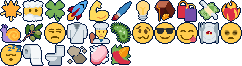
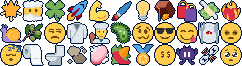
feat: add 5 new traits Ambitious Haggler, Gamer, Independent, Clingy

Changed region(s): [[0.5496, 0.6667, 1.0, 1.0]]

diff --git a/src/app/handlers.js b/src/app/handlers.js
@@ -54,7 +54,7 @@ App.handlers = {
 
                                 <span style="padding: 2px; margin: 0" class="flex flex-dir-col flex-gap-025 font-small">
                                     <span class="flex flex-gap-025 align-center">${App.getIcon("clock", true)}${Math.ceil(hole.duration / 1000 / 60)}</span>
-                                    <span class="flex flex-gap-025 align-center">${App.getIcon("special:gold", true)}${hole.payAmount}</span>
+                                    <span class="flex flex-gap-025 align-center">${App.getIcon("special:gold", true)}${App.handlers.getJobPay(hole)}</span>
                                 </span>
                             </div>
 
@@ -76,7 +76,7 @@ App.handlers = {
                             for
                             <b>${humanizeExactDuration(hole.duration)}</b>
                             and gets paid
-                            <b>${App.getIcon("special:gold", true)} ${hole.payAmount}</b>
+                            <b>${App.getIcon("special:gold", true)} ${App.handlers.getJobPay(hole)}</b>
                             `,
                             acceptLabel: "Accept",
                             declineLabel: "Cancel",
@@ -494,12 +494,28 @@ App.handlers = {
             (btn) => (btn.onclick = container.close),
         );
     },
+    getJobPay: function (definition) {
+        const base = definition.payAmount || 0;
+        const isSkillJob = definition.keywords?.includes("skill-job");
+        if (isSkillJob && App.petDefinition.hasTrait("ambitious")) {
+            return Math.round(base * 1.35);
+        }
+        return base;
+    },
     finalize_work: function (definition) {
-        App.pet.stats.gold += definition.payAmount;
-        App.pet.stats.current_fun -= random(25, 45);
+        const payAmount = App.handlers.getJobPay(definition);
+        let funLoss = random(25, 45);
+        if (
+            definition.keywords?.includes("skill-job") &&
+            App.petDefinition.hasTrait("ambitious")
+        ) {
+            funLoss = Math.round(funLoss * 0.5);
+        }
+        App.pet.stats.gold += payAmount;
+        App.pet.stats.current_fun -= funLoss;
         App.displayConfirm(
             ...GenericUIDef.singleConfirm(
-                `${App.petDefinition.getAvatar()} made $${definition.payAmount}!`,
+                `${App.petDefinition.getAvatar()} made $${payAmount}!`,
             ),
         );
     },
@@ -2428,13 +2444,17 @@ App.handlers = {
                 currentType !== "med";
 
             // 50% off on sales day
-            let price = current.price * priceMult;
+            const actualPrice = current.price * priceMult;
+            let price = actualPrice;
             if (sellMode) {
                 if (isFree) continue;
-                price = current.cookableOnly
-                    ? Math.floor(price * 1.5)
-                    : Math.floor(price * 0.75);
+                let sellRate = current.cookableOnly ? 1.5 : 0.75;
+                if (App.petDefinition.hasTrait("haggler")) sellRate *= 1.25;
+                let sellPrice = Math.floor(actualPrice * sellRate);
+                if (!current.cookableOnly && sellPrice > actualPrice) sellPrice = actualPrice - 1;
+                price = sellPrice;
             }
+            const sellTone = current.cookableOnly ? "positive" : "negative";
             if (salesDay) price = Math.round(price / 2);
 
             const foodIcon = App.getFoodCSprite(current.sprite);
@@ -2465,7 +2485,7 @@ App.handlers = {
                                     buyMode || sellMode
                                         ? `
                                     ${sellMode ? `<span class="opacity-half">$${current.price} <i class="fa-solid fa-angle-right"></i> </span>` : ""}
-                                    <span class="${sellMode ? `seller-analysis ${current.cookableOnly ? "positive" : "negative"}` : ""}">
+                                    <span class="${sellMode ? `seller-analysis ${sellTone}` : ""}">
                                         $${price}
                                     </span>
                                 `

diff --git a/src/Definitions.js b/src/Definitions.js
@@ -3377,6 +3377,7 @@ App.definitions = (() => {
                 condition: () => App.pet.stats.current_logic >= 80,
                 duration: App.constants.ONE_HOUR * 2.5,
                 icons: ['special:logic'],
+                keywords: ['skill-job'],
                 skillDescription: 'Requires high <b>Logic</b> skill',
                 isNew: false,
                 type: 'job',
@@ -3392,6 +3393,7 @@ App.definitions = (() => {
                 condition: () => App.pet.stats.current_endurance >= 80,
                 duration: App.constants.ONE_HOUR * 2.25,
                 icons: ['special:endurance'],
+                keywords: ['skill-job'],
                 skillDescription: 'Requires high <b>Endurance</b> skill',
                 isNew: false,
                 type: 'job',
@@ -3595,6 +3597,33 @@ App.definitions = (() => {
                 description: 'Cleanliness need drops slower.',
                 opposite: ['dustMagnet'],
                 icon: 26,
+            },
+            ambitious: {
+                name: 'Ambitious',
+                description: 'Earns more from skill jobs and loses less fun from them.',
+                icon: 28,
+            },
+            haggler: {
+                name: 'Haggler',
+                description: 'Sells food for more money.',
+                icon: 29,
+            },
+            gamer: {
+                name: 'Gamer',
+                description: 'Wants to play mini-games more often and gets more fun from them.',
+                icon: 30,
+            },
+            independent: {
+                name: 'Independent',
+                description: `Needs drop slower while you are away.`,
+                opposite: ['clingy'],
+                icon: 31,
+            },
+            clingy: {
+                name: 'Clingy',
+                description: `Needs drop faster while you are away.`,
+                opposite: ['independent'],
+                icon: 32,
             },
         },
 

diff --git a/src/PetDefinition.js b/src/PetDefinition.js
@@ -752,6 +752,9 @@ class PetDefinition {
         if(App.petDefinition.hasTrait('treasurer')){
             possibleCategories.push('item', 'item', 'item');
         }
+        if(App.petDefinition.hasTrait('gamer')){
+            possibleCategories.push('minigame', 'minigame', 'minigame');
+        }
 
         const currentCategory = /* 'minigame' ||  */existingCurrentCategory || randomFromArray(possibleCategories);
 
@@ -882,6 +885,13 @@ class PetDefinition {
         this.traits.push(traitKey || randomTrait);
 
         console.log(this, 'Developed new trait:', traitKey || randomTrait);
+    }
+    removeTrait(traitName){
+        const traitIndex = this.traits?.indexOf(traitName);
+        const hasTrait = traitIndex !== -1;
+        if(!hasTrait) return console.warn(`Doesn't have ${traitName} trait.`);
+        this.traits?.splice(traitIndex, 1);
+        return true;
     }
     checkFavorite(key, type){
         // babies can't develop favorites

diff --git a/src/Activities.js b/src/Activities.js
@@ -8264,10 +8264,16 @@ class Activities {
         if(App.petDefinition.hasTrait('lucky'))
             amount = Math.round(amount * (1 + random(0, 5) * 0.1));
 
+        let funGain = happiness ?? (amount / 5);
+        if(App.petDefinition.hasTrait('gamer')) {
+            funGain *= 1.5;
+            amount *= 1.1;
+        }
+
         amount = Math.floor(amount);
 
         App.pet.stats.gold += amount;
-        App.pet.stats.current_fun += happiness ?? (amount / 5);
+        App.pet.stats.current_fun += funGain;
         if(hasWon) Missions.done(Missions.TYPES.win_game);
 
         const petMain = new TimelineDirector(App.pet);

diff --git a/src/Pet.js b/src/Pet.js
@@ -919,6 +919,9 @@ class Pet extends Object2d {
                 offlineAndIsNight = true;
                 depletion_mult = 0.05;
             }
+
+            if(hasTrait('independent')) depletion_mult *= 0.8;
+            if(hasTrait('clingy')) depletion_mult *= 1.2;
         } else {
             this.attemptMisbehave();
         }
